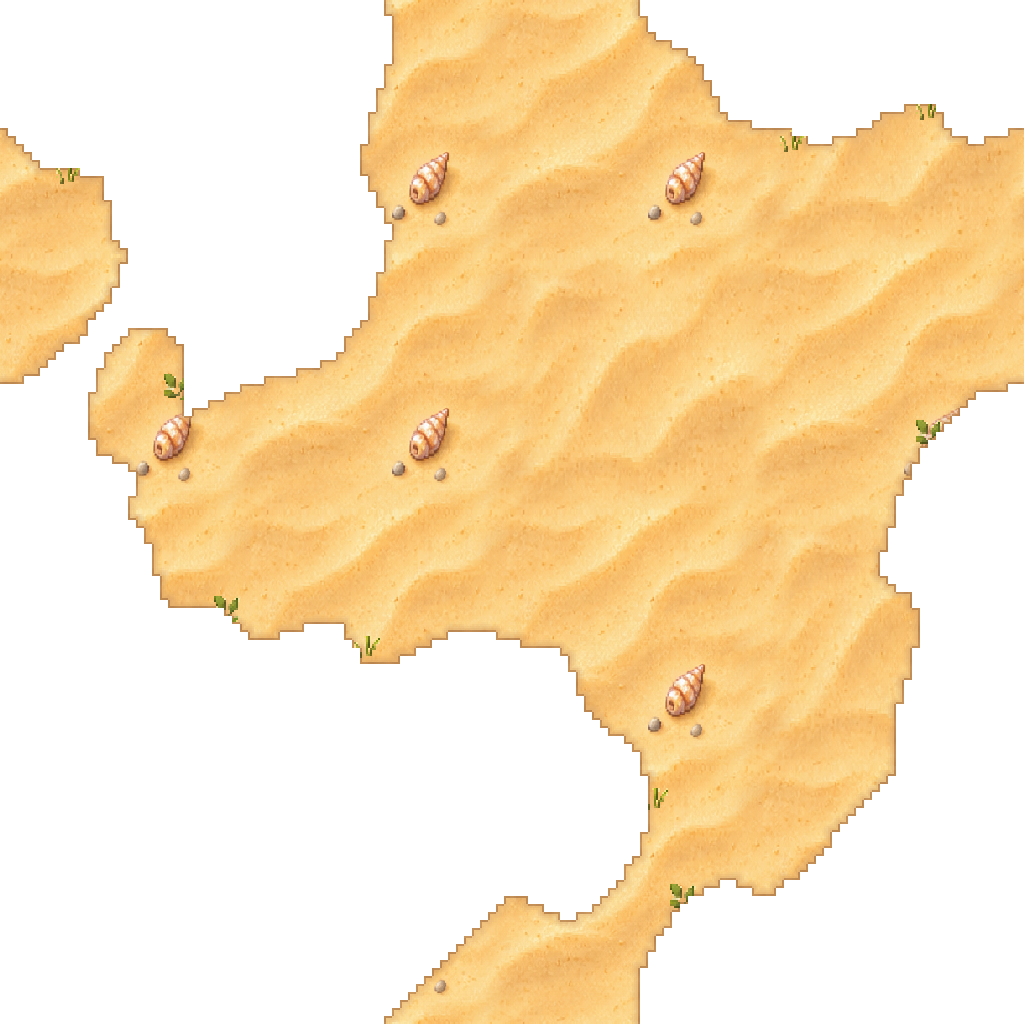
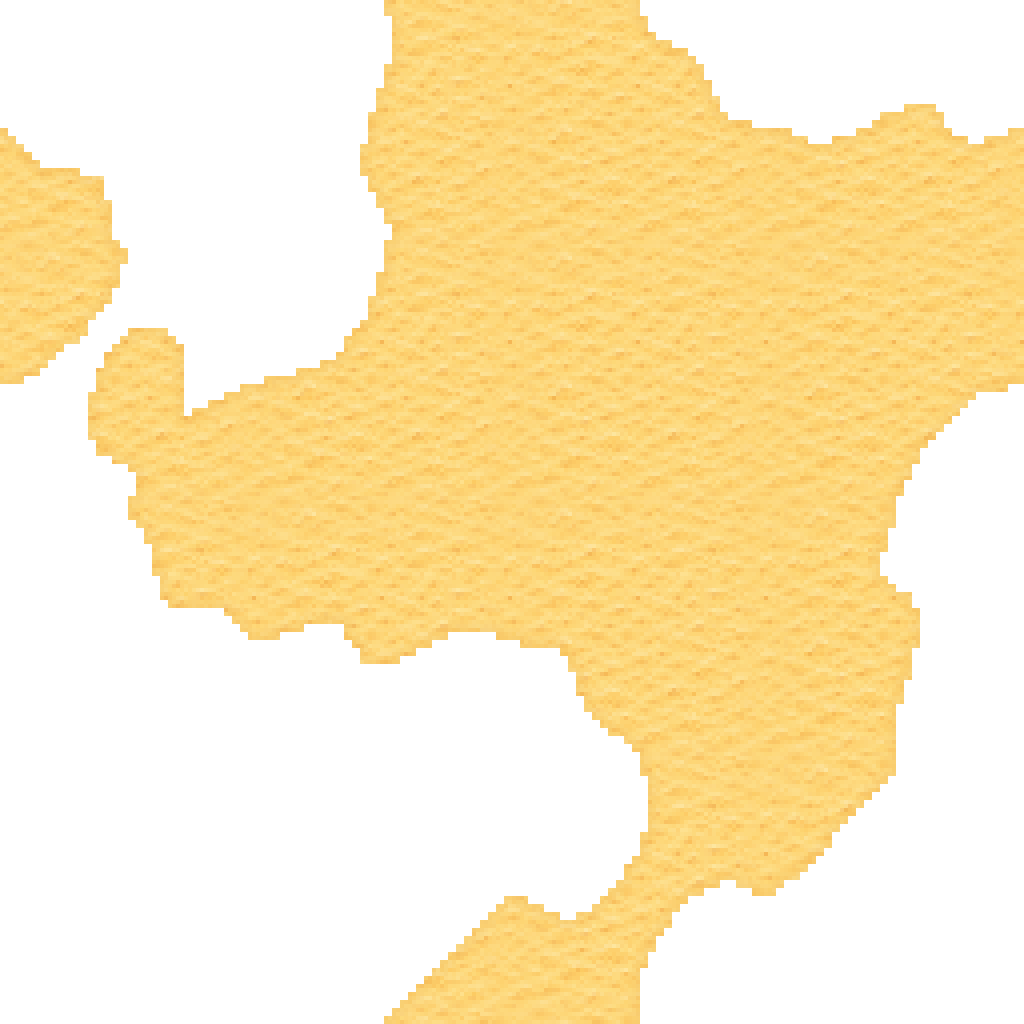
Glasswater: SpriteShip ground set (meadow grass, sand, golden path, shallow and deep water, cliff-top grass)
Meadow grass is the base, deep water is a new layer more than 60 units from the shore inside the shallow
water. The earlier GPT sheets stay as *-gpt-source.png.

Claude-Session: https://claude.ai/code/session_0152bnL1ocuryXt8KDsiAXGp

Changed region(s): [[0.0625, 0.0, 1.0, 1.0], [0.0, 0.125, 0.125, 0.375]]

diff --git a/src/dual-grid.js b/src/dual-grid.js
@@ -10,12 +10,12 @@ export const maskAt=(tl,tr,bl,br)=>(tl?1:0)|(tr?2:0)|(bl?4:0)|(br?8:0);
 export function frameCell(mask){const frame=FRAME_BY_MASK[mask];return {column:frame%4,row:Math.floor(frame/4)};}
 
 // The dual-grid sheets the game knows, by name. Files live in assets/ground/dual/ and texture packs may replace them.
-export const DUAL_GRID_SHEETS=Object.freeze({plateauTop:'plateau-top',cliffWall:'cliff-wall',sand:'sand',dirtPath:'dirt-path',water:'water',forestFloor:'forest-floor'});
+export const DUAL_GRID_SHEETS=Object.freeze({plateauTop:'plateau-top',cliffWall:'cliff-wall',sand:'sand',dirtPath:'dirt-path',water:'water',forestFloor:'forest-floor',meadowGrass:'meadow-grass',deepWater:'deep-water'});
 // Areas whose ground is built from dual-grid layers: a base texture, then each sheet over it in order. Water there
 // also walks on the same lattice (atlas-area.js), so the shoreline Eli stops at is the one on screen.
 export const GROUND_CELL=48;
 // base is a dual-grid sheet whose fully filled cell repeats under everything.
-export const DUAL_GROUND=Object.freeze({glasswater:{base:'forestFloor',layers:['sand','dirtPath','water']}});
+export const DUAL_GROUND=Object.freeze({glasswater:{base:'meadowGrass',layers:['sand','dirtPath','water','deepWater']}});
 const sheets=new Map(),listeners=new Set();
 onTexturePackChange(()=>{sheets.clear();listeners.forEach(fn=>fn());});
 export function dualGridSheet(kind,invalidate=()=>{}){

diff --git a/src/texture-packs.js b/src/texture-packs.js
@@ -3,7 +3,7 @@ import {SPRITES,PROPS} from './sprite-definitions.js';
 const excluded=new Set(['pickup','ash-arrow','eli-sabre','eli-spear','moonfang-charge']);
 const entityAssets=Object.entries(SPRITES).filter(([id,s])=>s.asset&&!excluded.has(id)&&!id.startsWith('core.')&&!id.startsWith('projectile.')&&!id.endsWith('-portrait')&&!id.endsWith('-illustration')).map(([,s])=>s.asset);
 const groundNames=['quarry-bedrock-v2','quarry-cliff-v2','earth-cliff','forest-floor','beach-sand','rocky-ground','marsh-ground','packed-dirt','moss-carpet','leaf-litter','river-pebbles','harbor-deck','cliff-top','old-road','drowned-road','shallow-water','river-water','open-sea'];
-export const TEXTURE_PACK_ASSETS=Object.freeze([...new Set([...entityAssets,...Object.values(PROPS),...groundNames.map(n=>`ground/${n}.webp`),...['plateau-top','cliff-wall','sand','dirt-path','water','forest-floor'].map(n=>`ground/dual/${n}.png`)])]);
+export const TEXTURE_PACK_ASSETS=Object.freeze([...new Set([...entityAssets,...Object.values(PROPS),...groundNames.map(n=>`ground/${n}.webp`),...['plateau-top','cliff-wall','sand','dirt-path','water','forest-floor','meadow-grass','deep-water'].map(n=>`ground/dual/${n}.png`)])]);
 const allowed=new Set(TEXTURE_PACK_ASSETS);
 // Texture packs contain artwork only. World geometry, collision and saves remain independent.
 const listeners=new Set();let active=null;

diff --git a/src/wilds.js b/src/wilds.js
@@ -233,7 +233,10 @@ const DUAL_TESTS={
  sand:(x,y,id)=>DELTA[id].zoneAt(x,y)==='sand'||waterDistance(x,y,id)<30,
  dirtPath:(x,y,id)=>roadDistance(x,y,id)<26&&waterDistance(x,y,id)>0,
  water:(x,y,id)=>waterDistance(x,y,id)<0,
+ // Deep water sits inside the shallow band: the shallow sheet's shore edge stays visible around it.
+ deepWater:(x,y,id)=>waterDistance(x,y,id)<-DEEP_WATER,
 };
+const DEEP_WATER=60;
 function dualGround(ctx,left,top,width,height,id){
  const plan=DUAL_GROUND[id];if(!plan||typeof document==='undefined')return false;
  const base=dualGridSheet(plan.base,markStale),sheets=plan.layers.map(k=>dualGridSheet(k,markStale));if(!base||sheets.some(s=>!s))return false;

diff --git a/docs/DUAL-GRID.md b/docs/DUAL-GRID.md
@@ -30,8 +30,8 @@ texture packs can replace them too.
 ## Dual-grid ground
 
 Areas listed in `DUAL_GROUND` (`src/dual-grid.js`; Glasswater for now) build their ground from layers on a 48-unit
-lattice: the base sheet (`forest-floor.png`, whose fully filled cell repeats under everything), then `sand.png` (sand zones and the shore band), `dirt-path.png` (trails)
-and `water.png` (water). Decks, props, reeds, rocks and scenery are drawn over the tiles as before. In these areas
+lattice: the base sheet (`meadow-grass.png`, whose fully filled cell repeats under everything), then `sand.png` (sand zones and the shore band), `dirt-path.png` (trails)
+`water.png` (shallow water with the shoreline) and `deep-water.png` (water more than 60 units from the shore). Decks, props, reeds, rocks and scenery are drawn over the tiles as before. In these areas
 the water's walking edge uses the same lattice rule as the water tiles (`atlas-area.js`), so the shoreline Eli stops at
 is the drawn one. Until every sheet has loaded the blended ground painter is used. The four ground sheets are
 painted (sources in `art/sprites/terrain/dual-grid/*-source.png`); `scripts/draw-dual-grid.py` keeps the painted ones.
